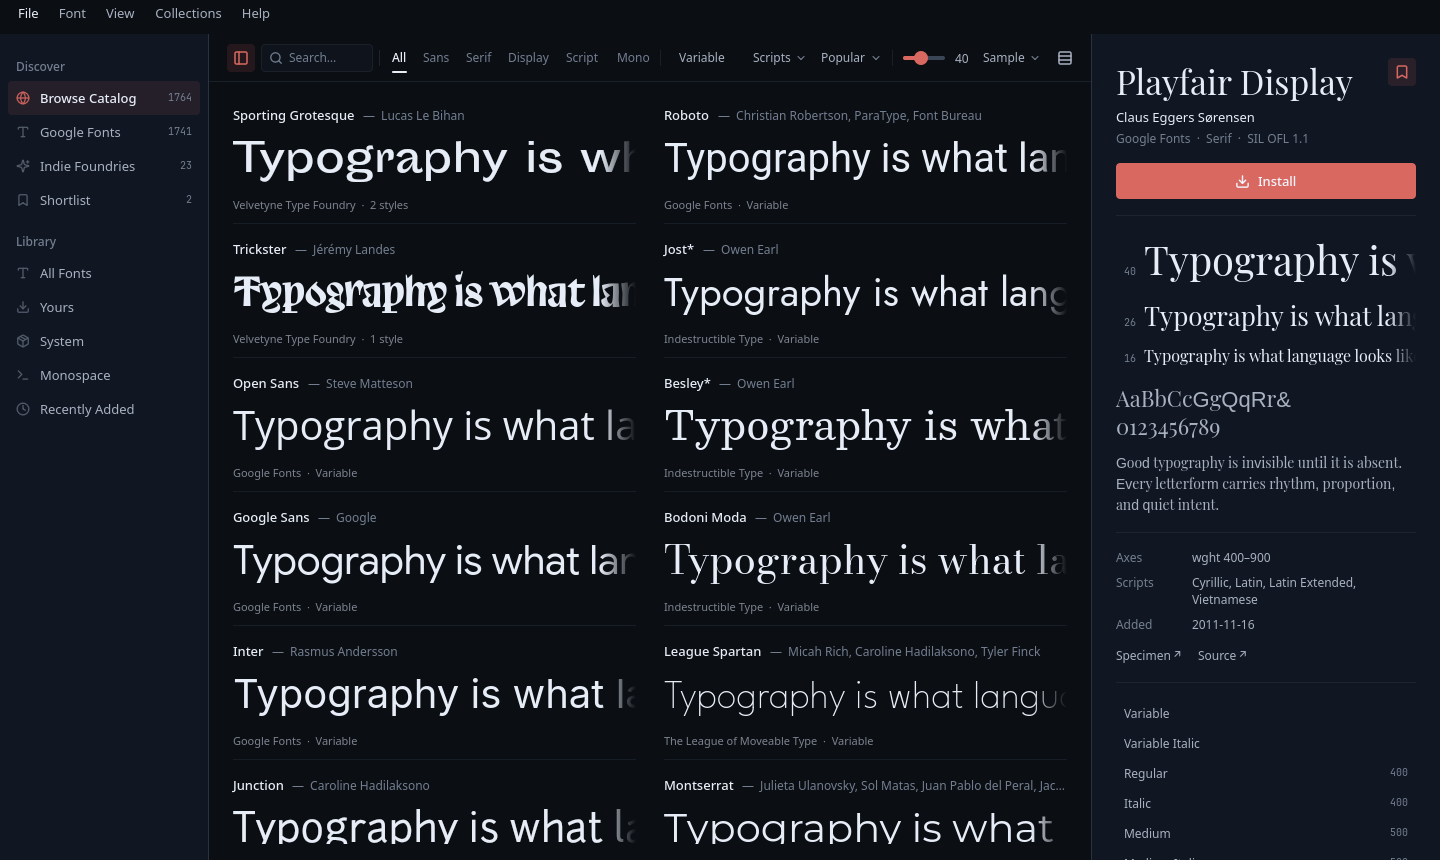
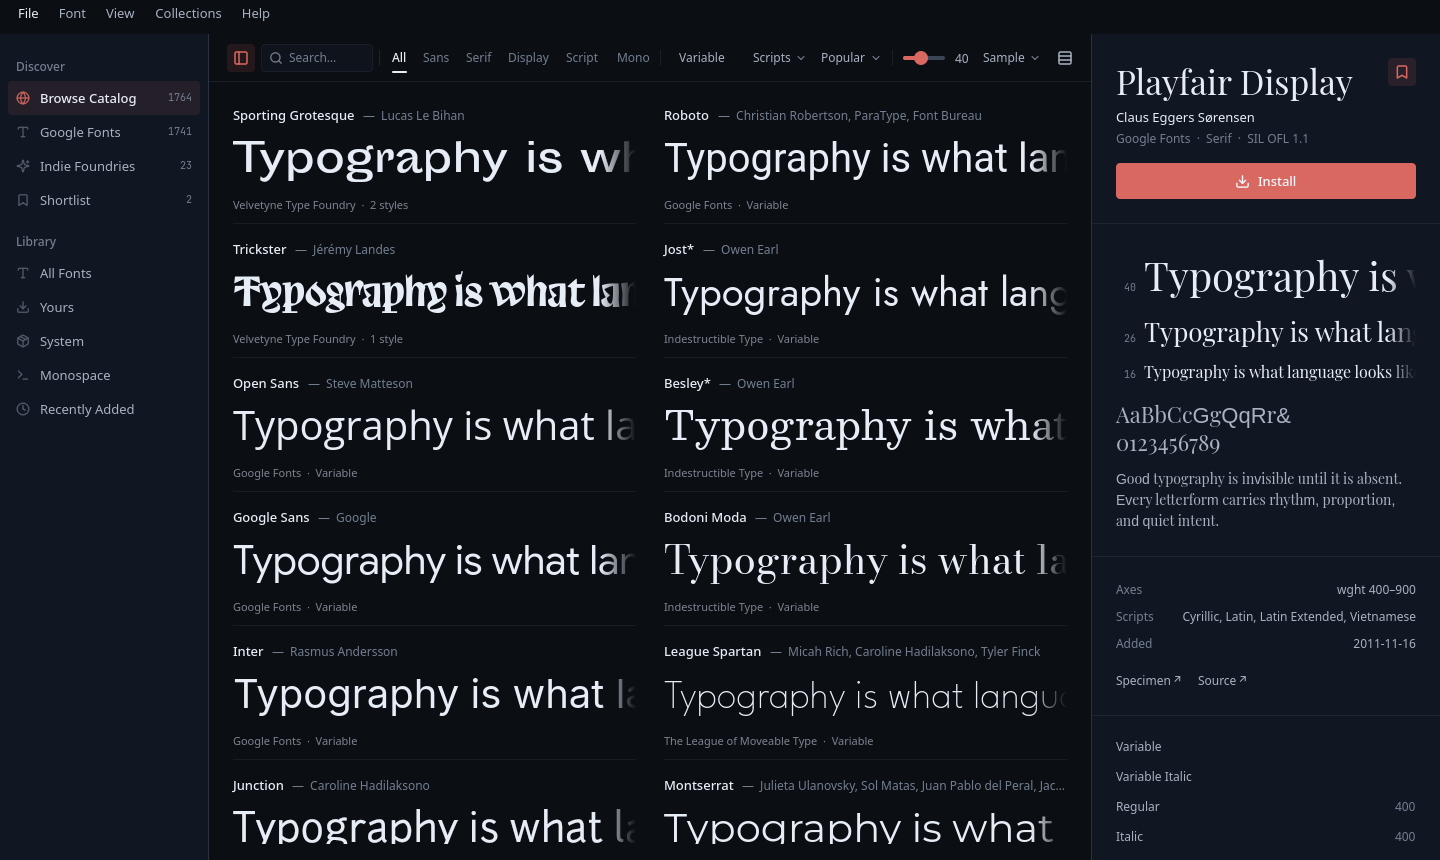
Unify inspector key-value layout and use full-width cell dividers

Changed region(s): [[0.7812, 0.2721, 1.0, 0.6349], [0.7812, 0.6349, 0.9688, 1.0], [0.9688, 0.9977, 1.0, 1.0]]

diff --git a/src/CatalogInspector.qml b/src/CatalogInspector.qml
@@ -74,9 +74,8 @@ Rectangle {
         property string value: ""
         visible: value !== ""
         Layout.fillWidth: true
-        spacing: Theme.s3
+        spacing: Theme.s4
         Label {
-            Layout.preferredWidth: 64
             Layout.alignment: Qt.AlignTop
             text: label
             color: Theme.textMuted
@@ -87,8 +86,15 @@ Rectangle {
             text: value
             color: Theme.textSecondary
             font.pixelSize: Theme.fsLabel
+            horizontalAlignment: Text.AlignRight
             wrapMode: Text.Wrap
         }
+    }
+
+    component CellRule: Rectangle {
+        Layout.fillWidth: true
+        implicitHeight: Theme.hairline
+        color: Theme.withAlpha(Theme.border, 0.5)
     }
 
     component TextLink: Item {
@@ -114,126 +120,132 @@ Rectangle {
         anchors.fill: parent
         clip: true
         contentWidth: width
-        contentHeight: content.implicitHeight + Theme.s5 * 2
+        contentHeight: content.implicitHeight + Theme.s5
         boundsBehavior: Flickable.StopAtBounds
         ScrollBar.vertical: ScrollBar {}
 
         ColumnLayout {
             id: content
-            x: Theme.s5
-            y: Theme.s5
-            width: flick.width - Theme.s5 * 2
-            spacing: Theme.s4
+            x: 0
+            y: 0
+            width: flick.width
+            spacing: 0
             visible: panel.hasSelection
 
-            // ── Identity & Designer Attribution ─────────────────────────────
+            // ── Cell 1: Identity, Attribution & Primary Action ──────────────
             ColumnLayout {
                 Layout.fillWidth: true
-                spacing: Theme.s1
+                Layout.margins: Theme.s5
+                spacing: Theme.s4
 
-                RowLayout {
+                ColumnLayout {
+                    Layout.fillWidth: true
+                    spacing: Theme.s1
+
+                    RowLayout {
+                        Layout.fillWidth: true
+                        spacing: Theme.s2
+                        Text {
+                            Layout.fillWidth: true
+                            text: panel.fam.family ?? ""
+                            textFormat: Text.PlainText
+                            font.family: panel.faceReady ? faceLoader.item.name : Theme.fontFamily
+                            font.pixelSize: 34
+                            color: Theme.specimenInk
+                            wrapMode: Text.Wrap
+                            lineHeightMode: Text.FixedHeight
+                            lineHeight: 38
+                        }
+                        ToolButton {
+                            Layout.alignment: Qt.AlignTop
+                            flat: true
+                            icon.name: "bookmark"
+                            checked: panel.fam.shortlisted ?? false
+                            onClicked: catalog.toggleShortlist(panel.fam.id)
+                            ToolTip.visible: hovered; ToolTip.delay: Theme.tooltipDelay
+                            ToolTip.text: (panel.fam.shortlisted ?? false) ? qsTr("Remove from Shortlist") : qsTr("Shortlist")
+                        }
+                    }
+
+                    Label {
+                        Layout.fillWidth: true
+                        visible: (panel.fam.designersText ?? "") !== ""
+                        text: panel.fam.designersText ?? ""
+                        color: Theme.textPrimary
+                        font.pixelSize: Theme.fsControl
+                        wrapMode: Text.Wrap
+                    }
+
+                    Label {
+                        Layout.fillWidth: true
+                        text: [
+                            panel.fam.sourceLabel ?? "",
+                            panel.fam.category ?? "",
+                            panel.fam.license ?? ""
+                        ].filter(s => s !== "").join("  ·  ")
+                        color: Theme.textMuted
+                        font.pixelSize: Theme.fsLabel
+                        wrapMode: Text.Wrap
+                    }
+                }
+
+                ColumnLayout {
                     Layout.fillWidth: true
                     spacing: Theme.s2
-                    Text {
+
+                    Rectangle {
+                        id: installBtn
+                        objectName: "inspectorCatalogInstall"
                         Layout.fillWidth: true
-                        text: panel.fam.family ?? ""
-                        textFormat: Text.PlainText
-                        font.family: panel.faceReady ? faceLoader.item.name : Theme.fontFamily
-                        font.pixelSize: 34
-                        color: Theme.specimenInk
-                        wrapMode: Text.Wrap
-                        lineHeightMode: Text.FixedHeight
-                        lineHeight: 38
-                    }
-                    ToolButton {
-                        Layout.alignment: Qt.AlignTop
-                        flat: true
-                        icon.name: "bookmark"
-                        checked: panel.fam.shortlisted ?? false
-                        onClicked: catalog.toggleShortlist(panel.fam.id)
-                        ToolTip.visible: hovered; ToolTip.delay: Theme.tooltipDelay
-                        ToolTip.text: (panel.fam.shortlisted ?? false) ? qsTr("Remove from Shortlist") : qsTr("Shortlist")
-                    }
-                }
+                        implicitHeight: 36
+                        radius: Theme.rControl
+                        readonly property bool isInstalled: panel.fam.installed ?? false
+                        readonly property bool isBusy: panel.fam.installing ?? false
+                        color: isInstalled ? Theme.controlBg
+                             : installHover.hovered ? Qt.lighter(Theme.accent, 1.08) : Theme.accent
+                        opacity: isBusy ? 0.65 : 1.0
 
-                Label {
-                    Layout.fillWidth: true
-                    visible: (panel.fam.designersText ?? "") !== ""
-                    text: panel.fam.designersText ?? ""
-                    color: Theme.textPrimary
-                    font.pixelSize: Theme.fsControl
-                    wrapMode: Text.Wrap
-                }
+                        HoverHandler { id: installHover; cursorShape: Qt.PointingHandCursor }
+                        TapHandler {
+                            enabled: !installBtn.isBusy
+                            onTapped: catalog.installFamily(panel.fam.id, true, panel.selectedFilenames)
+                        }
 
-                Label {
-                    Layout.fillWidth: true
-                    text: [
-                        panel.fam.sourceLabel ?? "",
-                        panel.fam.category ?? "",
-                        panel.fam.license ?? ""
-                    ].filter(s => s !== "").join("  ·  ")
-                    color: Theme.textMuted
-                    font.pixelSize: Theme.fsLabel
-                    wrapMode: Text.Wrap
-                }
-            }
-
-            // ── The one solid primary CTA in the window ─────────────────────
-            ColumnLayout {
-                Layout.fillWidth: true
-                spacing: Theme.s2
-
-                Rectangle {
-                    id: installBtn
-                    objectName: "inspectorCatalogInstall"
-                    Layout.fillWidth: true
-                    implicitHeight: 36
-                    radius: Theme.rControl
-                    readonly property bool isInstalled: panel.fam.installed ?? false
-                    readonly property bool isBusy: panel.fam.installing ?? false
-                    color: isInstalled ? Theme.controlBg
-                         : installHover.hovered ? Qt.lighter(Theme.accent, 1.08) : Theme.accent
-                    opacity: isBusy ? 0.65 : 1.0
-
-                    HoverHandler { id: installHover; cursorShape: Qt.PointingHandCursor }
-                    TapHandler {
-                        enabled: !installBtn.isBusy
-                        onTapped: catalog.installFamily(panel.fam.id, true, panel.selectedFilenames)
+                        RowLayout {
+                            anchors.centerIn: parent
+                            spacing: Theme.s2
+                            Icon {
+                                name: installBtn.isInstalled ? "check" : "download"
+                                size: 15
+                                color: installBtn.isInstalled ? Theme.success : Theme.accentText
+                            }
+                            Text {
+                                text: panel.installCtaLabel()
+                                color: installBtn.isInstalled ? Theme.textPrimary : Theme.accentText
+                                font.family: Theme.fontFamily
+                                font.pixelSize: Theme.fsControl
+                                font.weight: Font.DemiBold
+                            }
+                        }
                     }
 
                     RowLayout {
-                        anchors.centerIn: parent
-                        spacing: Theme.s2
-                        Icon {
-                            name: installBtn.isInstalled ? "check" : "download"
-                            size: 15
-                            color: installBtn.isInstalled ? Theme.success : Theme.accentText
-                        }
-                        Text {
-                            text: panel.installCtaLabel()
-                            color: installBtn.isInstalled ? Theme.textPrimary : Theme.accentText
-                            font.family: Theme.fontFamily
-                            font.pixelSize: Theme.fsControl
-                            font.weight: Font.DemiBold
-                        }
+                        visible: panel.fam.installed ?? false
+                        Layout.fillWidth: true
+                        spacing: Theme.s3
+                        TextLink { text: qsTr("Open in Library"); onClicked: panel.openInLibraryRequested(panel.fam.family) }
+                        Item { Layout.fillWidth: true }
+                        TextLink { text: qsTr("Uninstall"); onClicked: catalog.uninstallFamily(panel.fam.id) }
                     }
-                }
-
-                RowLayout {
-                    visible: panel.fam.installed ?? false
-                    Layout.fillWidth: true
-                    spacing: Theme.s3
-                    TextLink { text: qsTr("Open in Library"); onClicked: panel.openInLibraryRequested(panel.fam.family) }
-                    Item { Layout.fillWidth: true }
-                    TextLink { text: qsTr("Uninstall"); onClicked: catalog.uninstallFamily(panel.fam.id) }
                 }
             }
 
-            Rectangle { Layout.fillWidth: true; implicitHeight: Theme.hairline; color: Theme.withAlpha(Theme.border, 0.45) }
+            CellRule { visible: panel.faceReady }
 
-            // ── Printed-specimen waterfall + glyphs + body paragraph ────────
+            // ── Cell 2: Printed-specimen waterfall + glyphs + paragraph ─────
             ColumnLayout {
                 Layout.fillWidth: true
+                Layout.margins: Theme.s5
                 spacing: Theme.s3
                 visible: panel.faceReady
 
@@ -289,7 +301,7 @@ Rectangle {
                     }
                 }
 
-                // Glyphs & figures study (shows what the grid cannot)
+                // Glyphs & figures study
                 Text {
                     Layout.fillWidth: true
                     Layout.topMargin: Theme.s1
@@ -318,12 +330,13 @@ Rectangle {
                 }
             }
 
-            Rectangle { Layout.fillWidth: true; implicitHeight: Theme.hairline; color: Theme.withAlpha(Theme.border, 0.45) }
+            CellRule {}
 
-            // ── Deduplicated Metadata & Quiet Links ─────────────────────────
+            // ── Cell 3: Metadata & external links (unified left-key / right-value) ─
             ColumnLayout {
                 Layout.fillWidth: true
-                spacing: Theme.s2
+                Layout.margins: Theme.s5
+                spacing: Theme.s2 + 2
                 Fact { label: qsTr("Axes"); value: panel.fam.axesSummary ?? "" }
                 Fact { label: qsTr("Weights"); value: (panel.fam.axesSummary ?? "") === "" ? (panel.fam.weightRange ?? "") : "" }
                 Fact { label: qsTr("Scripts"); value: panel.formatSubsets(panel.fam.subsets ?? []) }
@@ -331,7 +344,7 @@ Rectangle {
 
                 RowLayout {
                     Layout.fillWidth: true
-                    Layout.topMargin: Theme.s1
+                    Layout.topMargin: Theme.s2
                     spacing: Theme.s4
                     visible: (panel.fam.homepage ?? "") !== "" || (panel.fam.repoUrl ?? "") !== ""
                     TextLink {
@@ -347,17 +360,16 @@ Rectangle {
                 }
             }
 
-            Rectangle {
-                visible: panel.files.length > 0 || catalog.loadingManifest
-                Layout.fillWidth: true
-                implicitHeight: Theme.hairline
-                color: Theme.withAlpha(Theme.border, 0.45)
-            }
+            CellRule { visible: panel.files.length > 0 || catalog.loadingManifest }
 
-            // ── Single unified Weight Picker (left accent bar, no checkboxes) ─
+            // ── Cell 4: Weight Picker (same left-key / right-value alignment) ─
             ColumnLayout {
                 visible: panel.files.length > 0 || catalog.loadingManifest
                 Layout.fillWidth: true
+                Layout.leftMargin: Theme.s5
+                Layout.rightMargin: Theme.s5
+                Layout.topMargin: Theme.s4
+                Layout.bottomMargin: Theme.s4
                 spacing: 2
 
                 Label {
@@ -381,6 +393,8 @@ Rectangle {
 
                         Rectangle {
                             anchors.fill: parent
+                            anchors.leftMargin: -Theme.s2
+                            anchors.rightMargin: -Theme.s2
                             radius: Theme.rControl
                             color: wRow.chosen ? Theme.withAlpha(Theme.textPrimary, 0.06)
                                  : wHover.hovered ? Theme.withAlpha(Theme.textPrimary, 0.03) : "transparent"
@@ -388,6 +402,7 @@ Rectangle {
                         Rectangle {
                             visible: wRow.chosen
                             anchors.left: parent.left
+                            anchors.leftMargin: -Theme.s2
                             anchors.top: parent.top
                             anchors.bottom: parent.bottom
                             anchors.topMargin: 5
@@ -397,8 +412,6 @@ Rectangle {
                         }
                         RowLayout {
                             anchors.fill: parent
-                            anchors.leftMargin: Theme.s2
-                            anchors.rightMargin: Theme.s2
                             spacing: Theme.s2
                             Label {
                                 Layout.fillWidth: true
@@ -412,8 +425,8 @@ Rectangle {
                                 visible: !wRow.modelData.variable && wRow.modelData.weight > 0
                                 text: String(wRow.modelData.weight)
                                 color: Theme.textMuted
-                                font.family: Theme.monoFamily
-                                font.pixelSize: Theme.fsCaption
+                                font.family: Theme.fontFamily
+                                font.pixelSize: Theme.fsLabel
                             }
                         }
                     }
